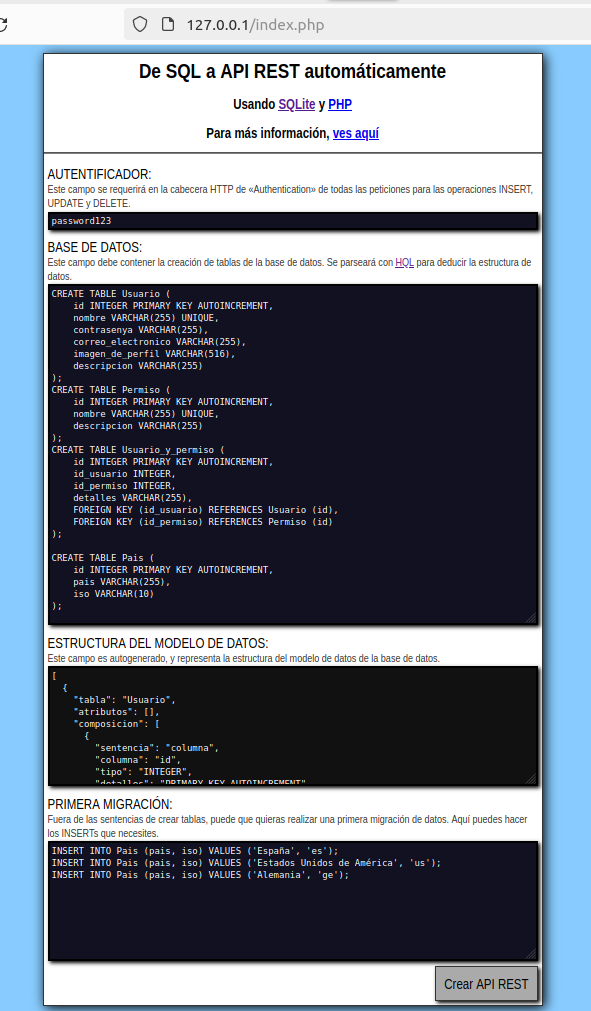
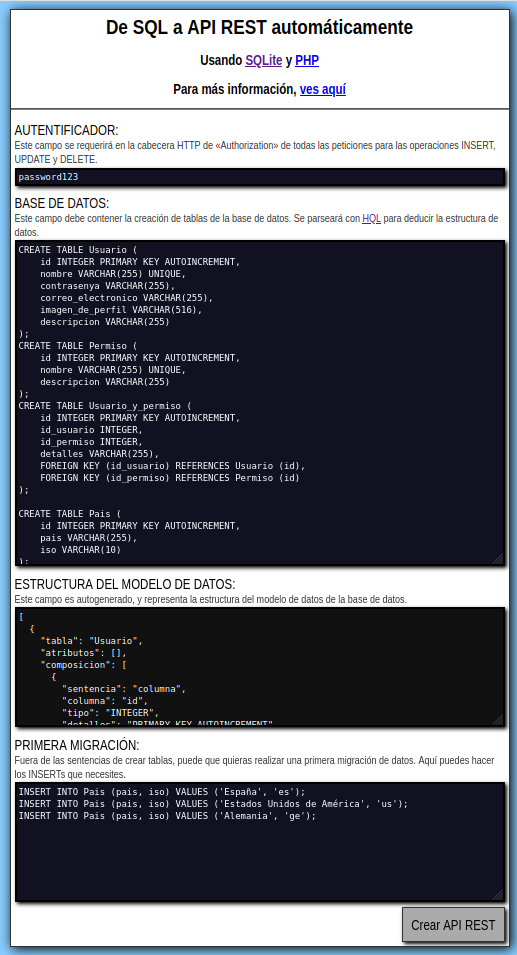
corregidas imagenes de instalador

diff --git a/installer.php b/installer.php
@@ -83,7 +83,7 @@
             <hr />
             <div style="padding:4px;">
                 <div>AUTENTIFICADOR:</div>
-                <div class="explicacion_de_campo">Este campo se requerirá en la cabecera HTTP de «Authentication» de todas las peticiones para las operaciones INSERT, UPDATE y DELETE.</div>
+                <div class="explicacion_de_campo">Este campo se requerirá en la cabecera HTTP de «Authorization» de todas las peticiones para las operaciones INSERT, UPDATE y DELETE.</div>
                 <input class="input_de_texto" type="text" name="autentificador" />
             </div>
             <div style="padding:4px;">
